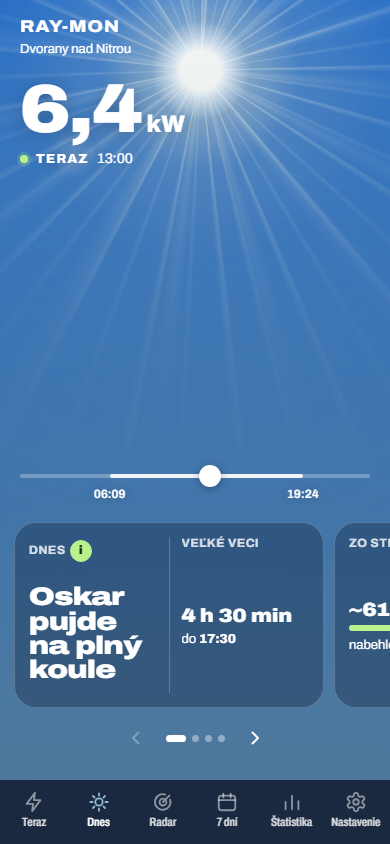
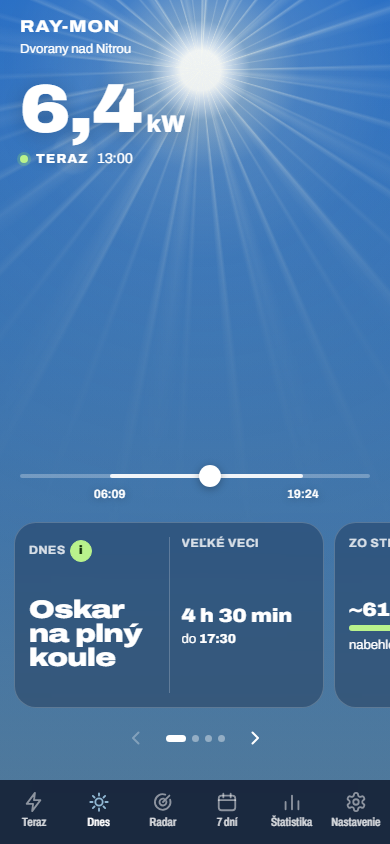
feat: kratšie hlášky karty Dnes podľa dotazníka
Veľké slová dňa v polovici dlaždice (DEN_WORDS, DEN_WORDS_SLUSNE) podľa odpovedí
v dotazníku 25. 11. 2026: drzý tón „Oskar na plný koule“, „ÚPLNE NAHOVNO“,
„Oskar to odpálil na plný koule“, „Pjekne nagovno“; slušný tón celý nanovo okrem
„Slabý deň“ a „Takmer nič nevyrobíme“. Ostatné ostali.

Changed region(s): [[0.0615, 0.6777, 0.3692, 0.8009]]

diff --git a/shared/messages-mozem.js b/shared/messages-mozem.js
@@ -35,34 +35,34 @@ export const DEN_WORDS = {
         horsi: 'Dojebabralo sa nám to dneskaj',
     },
     vecer: {
-        vyborny: 'Oskar to dnes odpálil na plný koule',
+        vyborny: 'Oskar to odpálil na plný koule',
         dobry: 'Not baad, zer gút',
         slaby: 'Dneskaj ništ moc, nem džo',
-        nanic: 'Dnes to bolo pjekne nagovno',
+        nanic: 'Pjekne nagovno',
     },
     iny: {
-        vyborny: 'Oskar pujde na plný koule',
+        vyborny: 'Oskar na plný koule',
         dobry: 'Not baaad',
         slaby: 'NAGOVNO DEŇ',
-        nanic: 'ÚPLNE NAHOVNO DEŇ',
+        nanic: 'ÚPLNE NAHOVNO',
     },
 };
 
 /** @type {typeof DEN_WORDS} */
 export const DEN_WORDS_SLUSNE = {
     zmena: {
-        lepsi: 'Deň bude lepší, ako sa čakalo',
-        horsi: 'Deň bude slabší, ako sa čakalo',
+        lepsi: 'Lepšie ako ranná predpoveď',
+        horsi: 'Horšie ako ranná predpoveď',
     },
     vecer: {
-        vyborny: 'Dnes to bol výborný deň',
-        dobry: 'Dnes to bol dobrý deň',
-        slaby: 'Dnes to bol slabý deň',
-        nanic: 'Dnes sme takmer nič nevyrobili',
+        vyborny: 'Skvelý deň, vysoká výroba',
+        dobry: 'Dobrý deň, slušná výroba',
+        slaby: 'Slabý deň, výroba nízka',
+        nanic: 'Veľmi nízka výroba',
     },
     iny: {
-        vyborny: 'Výborný deň',
-        dobry: 'Dobrý deň',
+        vyborny: 'Dosť slnka aj s rezervou',
+        dobry: 'Slnko natesno, bez rezervy',
         slaby: 'Slabý deň',
         nanic: 'Takmer nič nevyrobíme',
     },

diff --git a/test/tyzden.test.js b/test/tyzden.test.js
@@ -293,14 +293,14 @@ test('karta Teraz so zvoleným dňom: plán toho dňa, dnešok ostáva v hornej 
     const i = input(DVA_DNI);
     const utorok = terazModel(i, { den: 3 });
     assert.equal(utorok.hreben?.zvoleny, 3);
-    assert.equal(utorok.co?.den, 'Oskar pujde na plný koule');
+    assert.equal(utorok.co?.den, 'Oskar na plný koule');
     assert.ok(utorok.co?.riadky.every((r) => r.kind === 'later'));
     assert.ok(utorok.veci.every((v) => v.den === 'Utorok'));
     assert.equal(utorok.num, terazModel(i).num, 'číslo je vždy teraz');
     const nedela = terazModel(i, { den: 1 });
-    assert.equal(nedela.co?.den, 'ÚPLNE NAHOVNO DEŇ');
+    assert.equal(nedela.co?.den, 'ÚPLNE NAHOVNO');
     assert.equal(terazModel(i, { den: 1, voice: 'slusny' }).co?.den, 'Takmer nič nevyrobíme');
-    assert.equal(terazModel(i, { den: 3, voice: 'slusny' }).co?.den, 'Výborný deň');
+    assert.equal(terazModel(i, { den: 3, voice: 'slusny' }).co?.den, 'Dosť slnka aj s rezervou');
     assert.ok(nedela.co?.riadky.every((r) => r.kind === 'nudza'));
     const mimo = terazModel(i, { den: 99 });
     assert.equal(mimo.hreben?.zvoleny, 0);

diff --git a/test/den-trieda.test.js b/test/den-trieda.test.js
@@ -105,7 +105,7 @@ test('karta Dnes: veľké slovo o celom dni v oboch tónoch', () => {
     const rano = mozemModel({ ...den(1, at('05:30')), loading: false });
     assert.deepEqual(rano.den, { cls: 'vyborny', faza: 'rano', change: null });
     assert.equal(rano.word, DEN_WORDS.iny.vyborny);
-    assert.equal(mozemModel({ ...den(1, at('05:30')), loading: false }, { voice: 'slusny' }).word, 'Výborný deň');
+    assert.equal(mozemModel({ ...den(1, at('05:30')), loading: false }, { voice: 'slusny' }).word, 'Dosť slnka aj s rezervou');
 
     // Ráno bolo výborne, cez deň sa zamračilo: hláška o zmene.
     const ranna = recordRanna(null, { date: '2026-09-05', devices: PLAN_DNA.devices, cls: 'vyborny', faza: 'den' });

diff --git a/test/texts.test.js b/test/texts.test.js
@@ -64,7 +64,7 @@ test('slušný tón: slová a texty Štatistiky podľa návrhu', () => {
     const s = M.voiceTexts('slusny');
     assert.deepEqual(
         [s.DEN_WORDS.iny.dobry, s.DEN_WORDS.zmena.lepsi, s.DEN_WORDS.vecer.nanic, s.MOZEM_WORDS.offline],
-        ['Dobrý deň', 'Deň bude lepší, ako sa čakalo', 'Dnes sme takmer nič nevyrobili', 'Nemám dáta, sme off-line'],
+        ['Slnko natesno, bez rezervy', 'Lepšie ako ranná predpoveď', 'Veľmi nízka výroba', 'Nemám dáta, sme off-line'],
     );
     assert.equal(s.MOZEM_SKY_TEXTS.guessTitle, 'Toto je len odhad');
     assert.equal(s.STATISTIKA_TEXTS.setupTitle, 'Štatistika potrebuje vaše panely');

diff --git a/test/mozem.test.js b/test/mozem.test.js
@@ -101,7 +101,7 @@ test('13:00 za jasna: zapínaj, s meraním nabitia mobilu a spotrebiče dokedy',
     assert.equal(m.state, 'go');
     // Slovo hovorí o celom dni: všetky spotrebiče sa zmestia aj s rezervou na mrak (auto v Pláne dňa nie je).
     assert.deepEqual(m.den, { cls: 'vyborny', faza: 'den', change: null });
-    assert.equal(m.word, 'Oskar pujde na plný koule');
+    assert.equal(m.word, 'Oskar na plný koule');
     assert.match(m.hero.factV, /^~\d+ mobilov$/);
     assert.ok(m.strip && m.strip.width > 0 && m.strip.now > m.strip.left);
     const pracka = item(m, 'pracka');

diff --git a/test/e2e/obloha.spec.js b/test/e2e/obloha.spec.js
@@ -1727,7 +1727,7 @@ test.describe('karta Teraz', () => {
         const zajtra = terazModel(vstup, { den: 1 });
         await expect(dni.nth(1)).toHaveAttribute('aria-pressed', 'true');
         await expect(dni.nth(1)).toBeFocused();
-        expect(zajtra.co?.den).toBe('ÚPLNE NAHOVNO DEŇ');
+        expect(zajtra.co?.den).toBe('ÚPLNE NAHOVNO');
         await expect(page.locator('#tz-den-hlaska')).toHaveText(zajtra.co?.den ?? '-');
         await expect.poll(() => coVStranke(page)).toEqual(coZModelu(zajtra));
         expect(

diff --git a/test/e2e/obloha-vzhlad.spec.js b/test/e2e/obloha-vzhlad.spec.js
@@ -127,7 +127,7 @@ test.describe('tón hlášok', () => {
         const errors = await openObloha(page);
         const drzy = modelMozem(FIXED_NOW, 'drzy');
         const slusny = modelMozem(FIXED_NOW, 'slusny');
-        expect(slusny.word).toBe('Výborný deň');
+        expect(slusny.word).toBe('Dosť slnka aj s rezervou');
         await karta(page, 'mozem');
         await expect(page.locator('#mz-word')).toHaveText(drzy.word);
 
